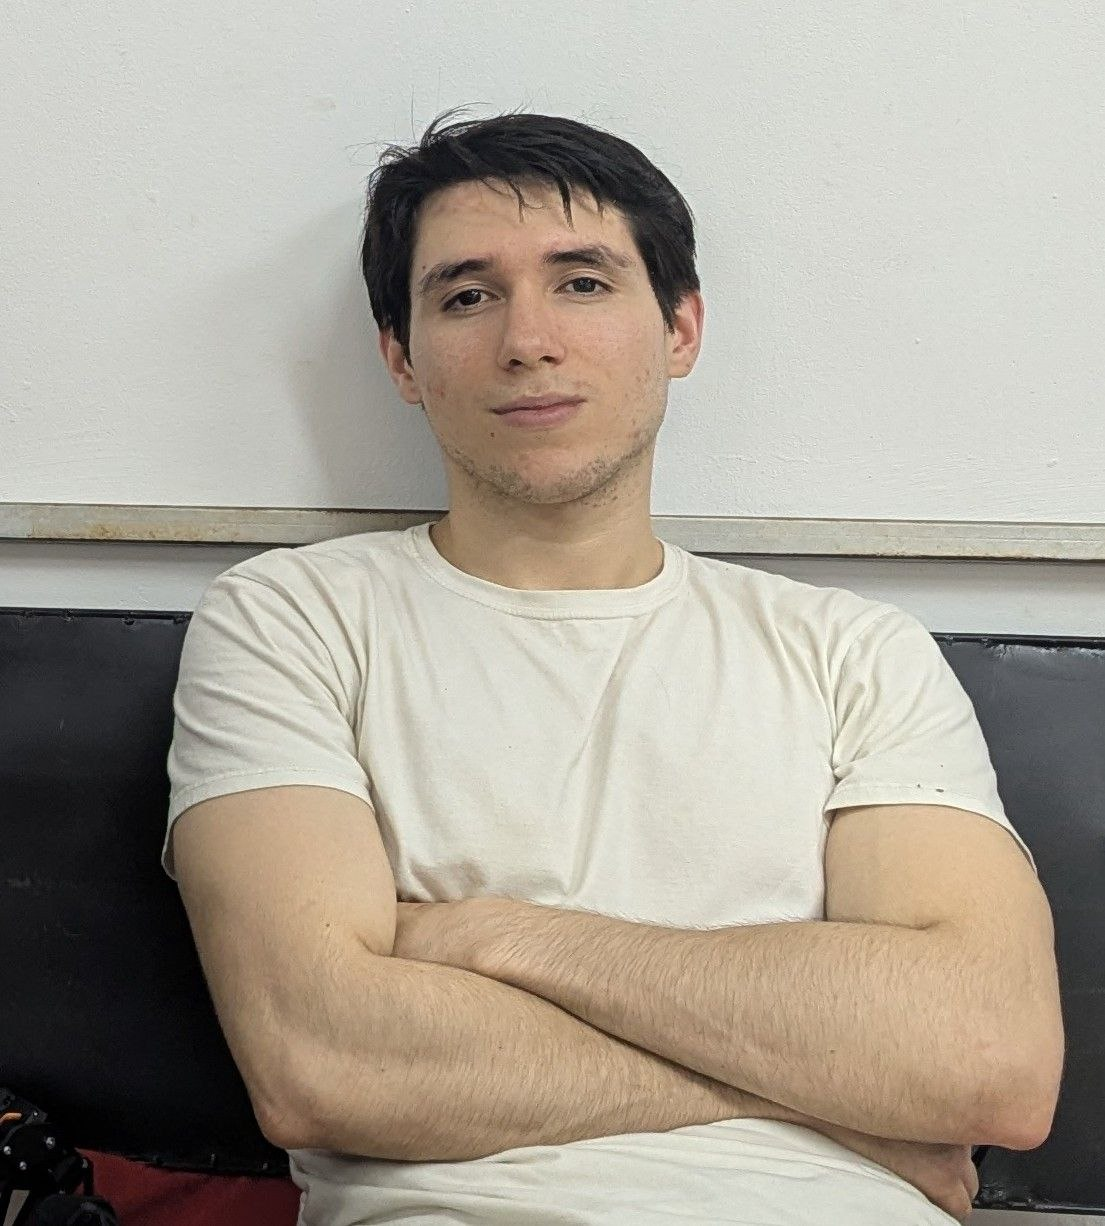
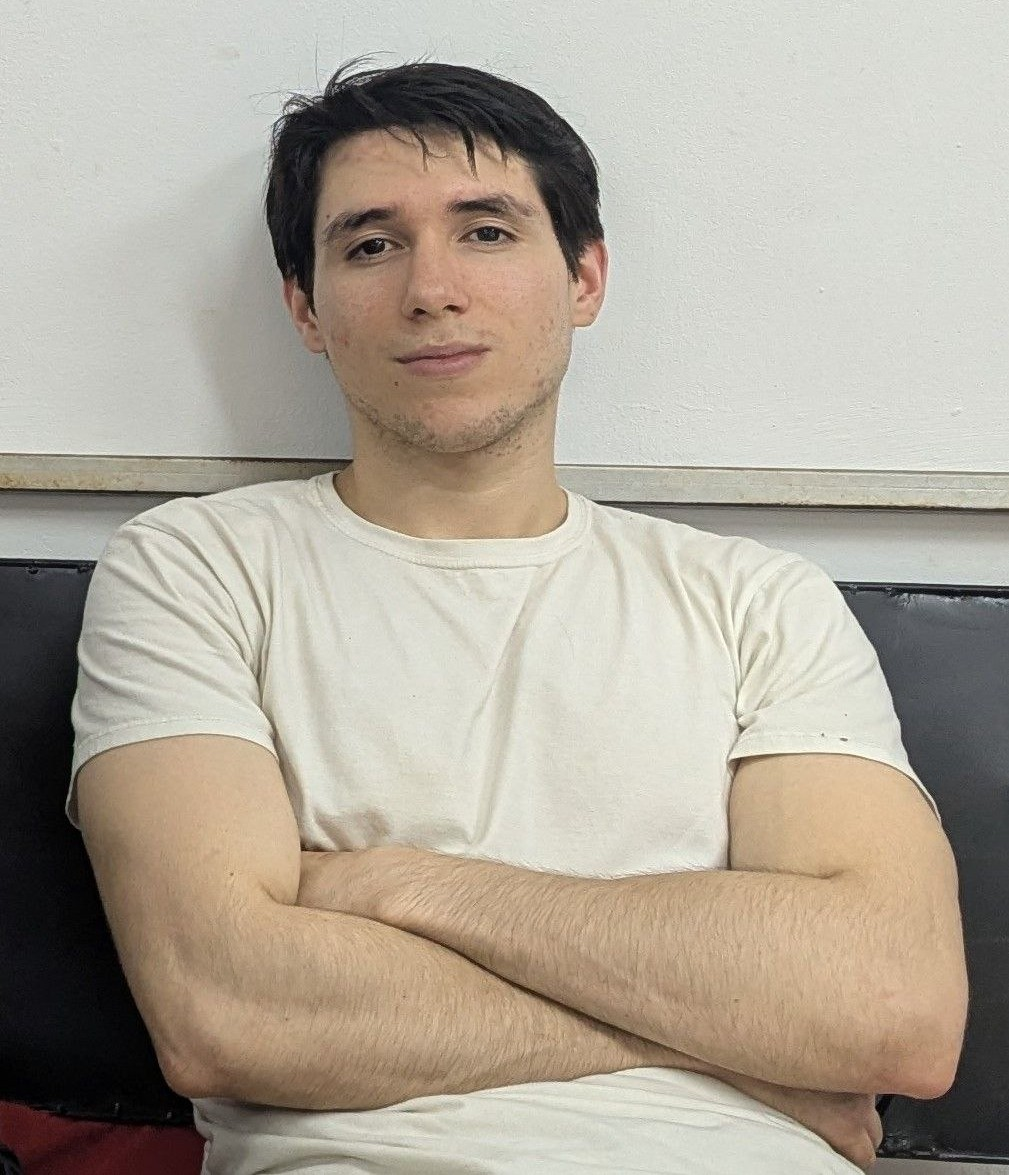
.

diff --git a/frontend/home copy.html b/frontend/home copy.html
@@ -567,7 +567,7 @@
 
   <!-- ===== EXTRACURRICULAR ===== -->
   <section class="extra-section">
-    <p class="section-label">Beyond the lab</p>
+    <p class="section-label">Leadership & Community</p>
     <h2 class="section-title">Extracurricular Activities</h2>
     <div class="extra-list">
 